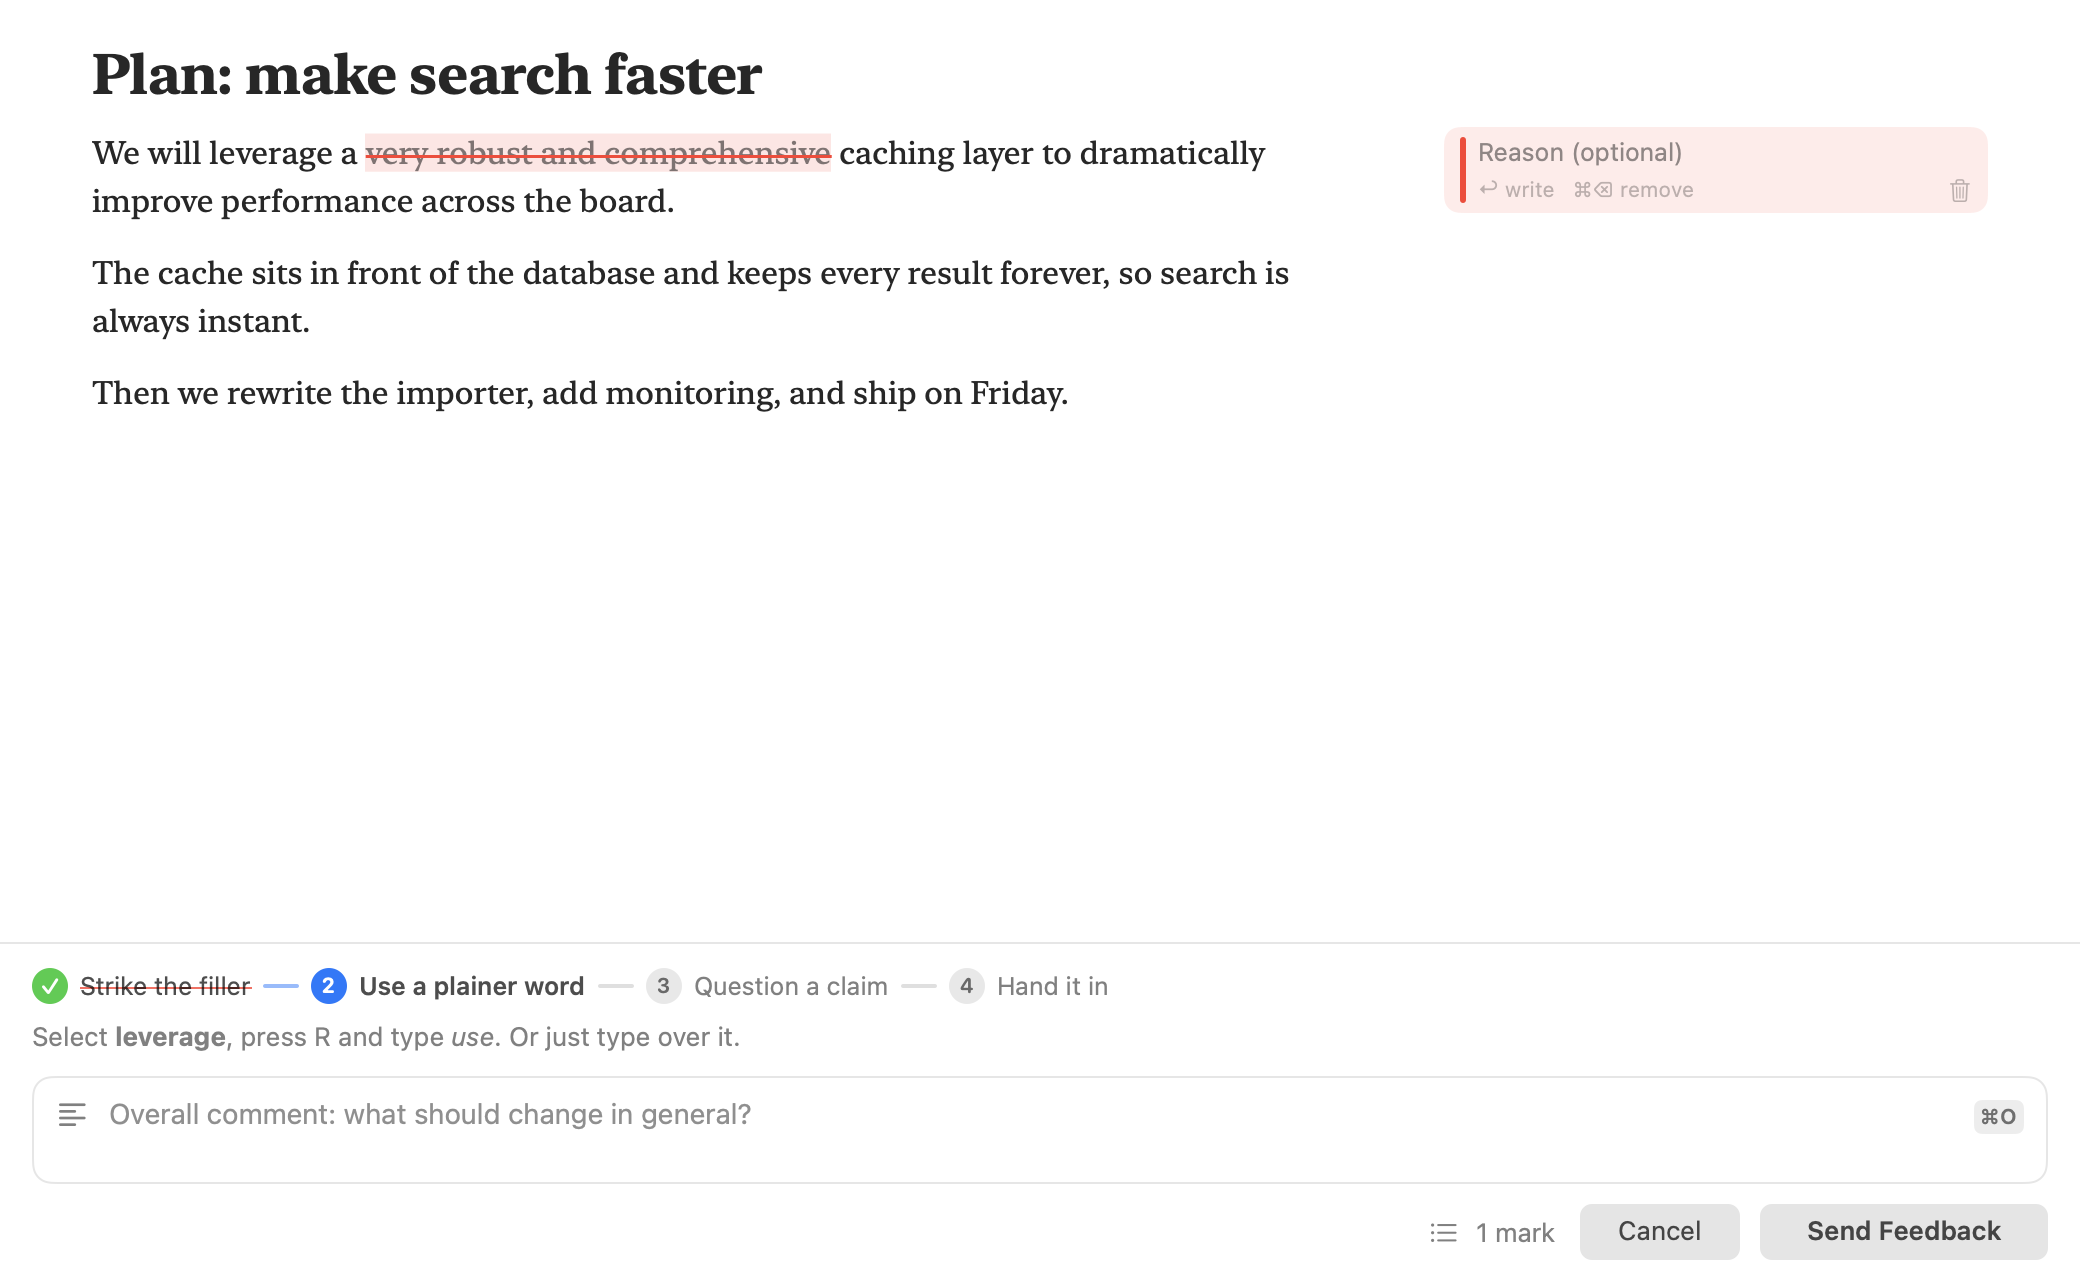
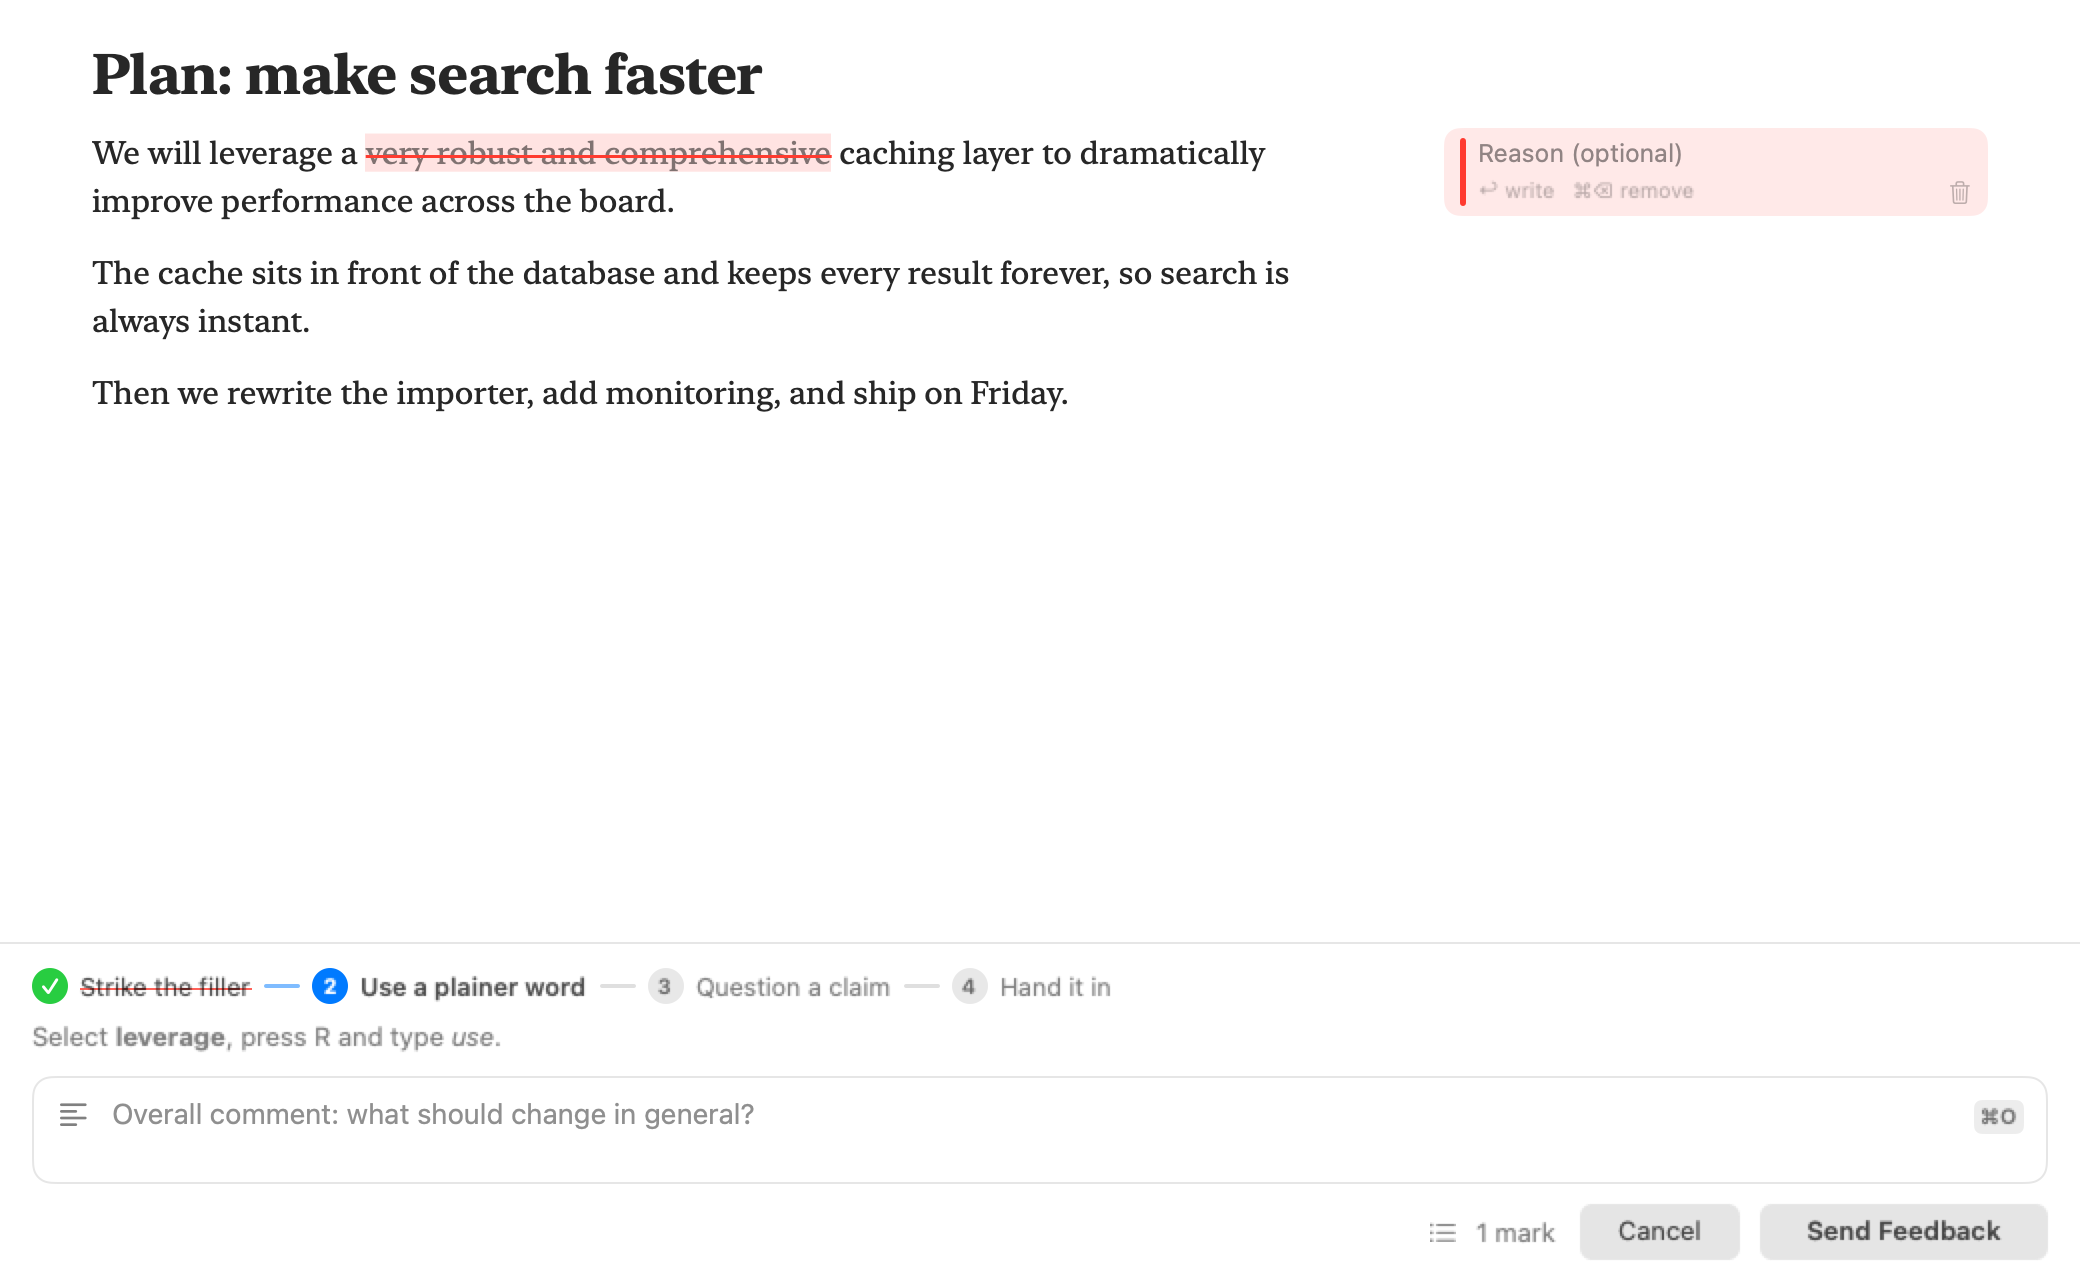
Snapshots at two pixels a point on any screen; README screenshots redrawn with the new lists

diff --git a/Packages/AnnotatorKit/Tests/AnnotatorUITests/WelcomeTests.swift b/Packages/AnnotatorKit/Tests/AnnotatorUITests/WelcomeTests.swift
@@ -82,8 +82,7 @@ struct WelcomeTests {
             window.appearance = NSAppearance(named: appearance)
             view.layoutSubtreeIfNeeded()
             RunLoop.main.run(until: Date().addingTimeInterval(0.15))
-            guard let bitmap = view.bitmapImageRepForCachingDisplay(in: view.bounds) else { continue }
-            view.cacheDisplay(in: view.bounds, to: bitmap)
+            guard let bitmap = view.snapshotBitmap() else { continue }
             try? bitmap.representation(using: .png, properties: [:])?
                 .write(to: URL(fileURLWithPath: directory).appendingPathComponent("welcome-\(suffix).png"))
         }
@@ -95,8 +94,7 @@ struct WelcomeTests {
         finishWindow.contentView = finish
         finish.layoutSubtreeIfNeeded()
         RunLoop.main.run(until: Date().addingTimeInterval(0.15))
-        if let bitmap = finish.bitmapImageRepForCachingDisplay(in: finish.bounds) {
-            finish.cacheDisplay(in: finish.bounds, to: bitmap)
+        if let bitmap = finish.snapshotBitmap() {
             try? bitmap.representation(using: .png, properties: [:])?
                 .write(to: URL(fileURLWithPath: directory).appendingPathComponent("welcome-handed-in.png"))
         }

diff --git a/Packages/AnnotatorKit/Tests/AnnotatorUITests/ReviewWindowTests.swift b/Packages/AnnotatorKit/Tests/AnnotatorUITests/ReviewWindowTests.swift
@@ -95,8 +95,7 @@ struct ReviewWindowTests {
         for (suffix, appearance) in [("light", NSAppearance.Name.aqua), ("dark", .darkAqua)] {
             window.appearance = NSAppearance(named: appearance)
             settle(window)
-            guard let bitmap = view.bitmapImageRepForCachingDisplay(in: view.bounds) else { continue }
-            view.cacheDisplay(in: view.bounds, to: bitmap)
+            guard let bitmap = view.snapshotBitmap() else { continue }
             let url = URL(fileURLWithPath: directory).appendingPathComponent("\(name)-\(suffix).png")
             try? bitmap.representation(using: .png, properties: [:])?.write(to: url)
         }
@@ -437,8 +436,7 @@ struct ReviewWindowTests {
         backdrop.addSubview(view)
         window.contentView = backdrop
         settle(window)
-        guard let bitmap = backdrop.bitmapImageRepForCachingDisplay(in: backdrop.bounds) else { return }
-        backdrop.cacheDisplay(in: backdrop.bounds, to: bitmap)
+        guard let bitmap = backdrop.snapshotBitmap() else { return }
         try? bitmap.representation(using: .png, properties: [:])?.write(to: URL(fileURLWithPath: directory).appendingPathComponent("selection-bar.png"))
     }
 

diff --git a/Packages/AnnotatorKit/Tests/AnnotatorUITests/Snapshots.swift b/Packages/AnnotatorKit/Tests/AnnotatorUITests/Snapshots.swift
@@ -1,0 +1,16 @@
+import AppKit
+
+extension NSView {
+    /// A picture of the view at two pixels a point, whatever screen the tests
+    /// run on, so the screenshots in the README come out the same everywhere.
+    @MainActor func snapshotBitmap() -> NSBitmapImageRep? {
+        guard let bitmap = NSBitmapImageRep(
+            bitmapDataPlanes: nil, pixelsWide: Int(bounds.width * 2), pixelsHigh: Int(bounds.height * 2),
+            bitsPerSample: 8, samplesPerPixel: 4, hasAlpha: true, isPlanar: false,
+            colorSpaceName: .deviceRGB, bytesPerRow: 0, bitsPerPixel: 0
+        ) else { return nil }
+        bitmap.size = bounds.size
+        cacheDisplay(in: bounds, to: bitmap)
+        return bitmap
+    }
+}

diff --git a/Packages/AnnotatorKit/Tests/AnnotatorUITests/PlanChangesTests.swift b/Packages/AnnotatorKit/Tests/AnnotatorUITests/PlanChangesTests.swift
@@ -70,8 +70,7 @@ struct PlanChangesTests {
             window.appearance = NSAppearance(named: appearance)
             view.layoutSubtreeIfNeeded()
             RunLoop.main.run(until: Date().addingTimeInterval(0.15))
-            guard let bitmap = view.bitmapImageRepForCachingDisplay(in: view.bounds) else { continue }
-            view.cacheDisplay(in: view.bounds, to: bitmap)
+            guard let bitmap = view.snapshotBitmap() else { continue }
             try? bitmap.representation(using: .png, properties: [:])?.write(to: URL(fileURLWithPath: directory).appendingPathComponent("\(name)\(suffix).png"))
         }
         window.appearance = nil

diff --git a/Packages/AnnotatorKit/Tests/AnnotatorUITests/WideTableTests.swift b/Packages/AnnotatorKit/Tests/AnnotatorUITests/WideTableTests.swift
@@ -69,8 +69,7 @@ struct WideTableTests {
             window.appearance = NSAppearance(named: appearance)
             view.layoutSubtreeIfNeeded()
             RunLoop.main.run(until: Date().addingTimeInterval(0.15))
-            guard let bitmap = view.bitmapImageRepForCachingDisplay(in: view.bounds) else { continue }
-            view.cacheDisplay(in: view.bounds, to: bitmap)
+            guard let bitmap = view.snapshotBitmap() else { continue }
             try? bitmap.representation(using: .png, properties: [:])?
                 .write(to: URL(fileURLWithPath: directory).appendingPathComponent("wide-table-\(suffix).png"))
         }

diff --git a/Packages/AnnotatorKit/Tests/AnnotatorUITests/SnippetsAndHistoryTests.swift b/Packages/AnnotatorKit/Tests/AnnotatorUITests/SnippetsAndHistoryTests.swift
@@ -28,8 +28,7 @@ struct SnippetsAndHistoryTests {
             window.appearance = NSAppearance(named: appearance)
             host.layoutSubtreeIfNeeded()
             RunLoop.main.run(until: Date().addingTimeInterval(0.3))
-            guard let bitmap = host.bitmapImageRepForCachingDisplay(in: host.bounds) else { continue }
-            host.cacheDisplay(in: host.bounds, to: bitmap)
+            guard let bitmap = host.snapshotBitmap() else { continue }
             try? bitmap.representation(using: .png, properties: [:])?.write(to: URL(fileURLWithPath: directory).appendingPathComponent("\(name)\(suffix).png"))
         }
     }

diff --git a/Packages/AnnotatorKit/Tests/AnnotatorUITests/CaptureTests.swift b/Packages/AnnotatorKit/Tests/AnnotatorUITests/CaptureTests.swift
@@ -151,8 +151,7 @@ struct CaptureTests {
             window.appearance = NSAppearance(named: appearance)
             host.layoutSubtreeIfNeeded()
             RunLoop.main.run(until: Date().addingTimeInterval(0.2))
-            guard let bitmap = host.bitmapImageRepForCachingDisplay(in: host.bounds) else { continue }
-            host.cacheDisplay(in: host.bounds, to: bitmap)
+            guard let bitmap = host.snapshotBitmap() else { continue }
             try? bitmap.representation(using: .png, properties: [:])?.write(to: URL(fileURLWithPath: directory).appendingPathComponent("\(name)\(suffix).png"))
         }
     }
